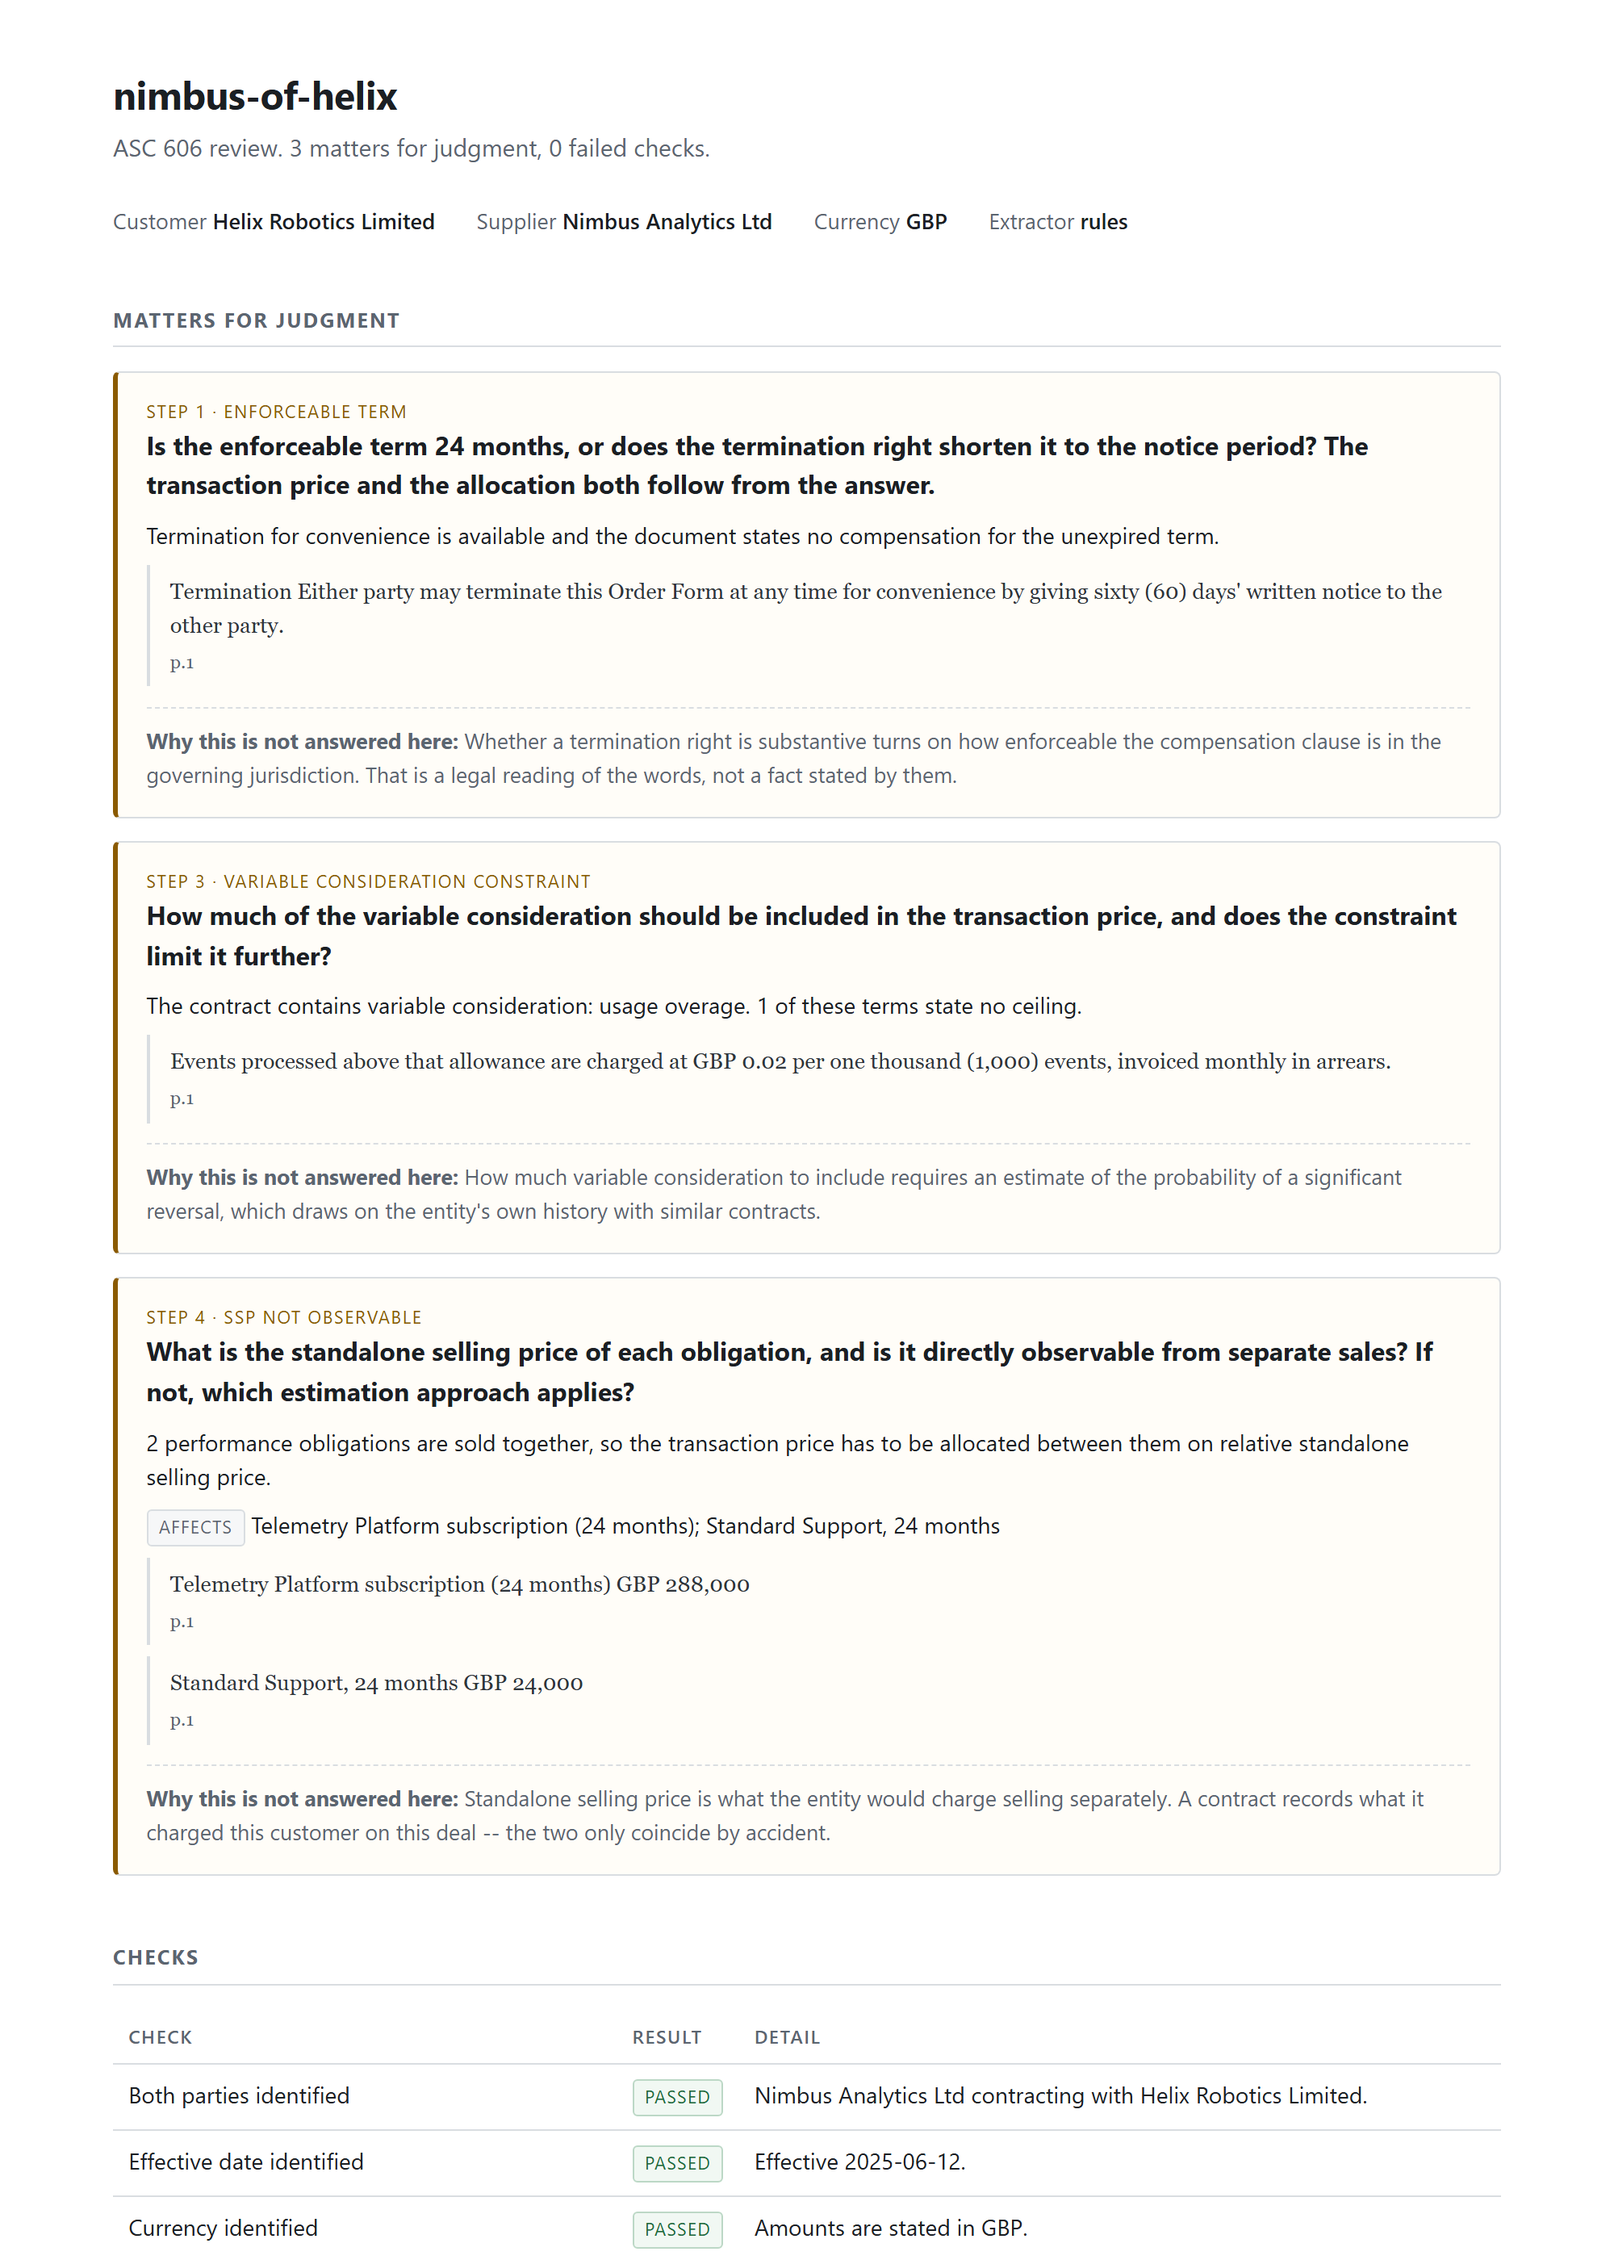
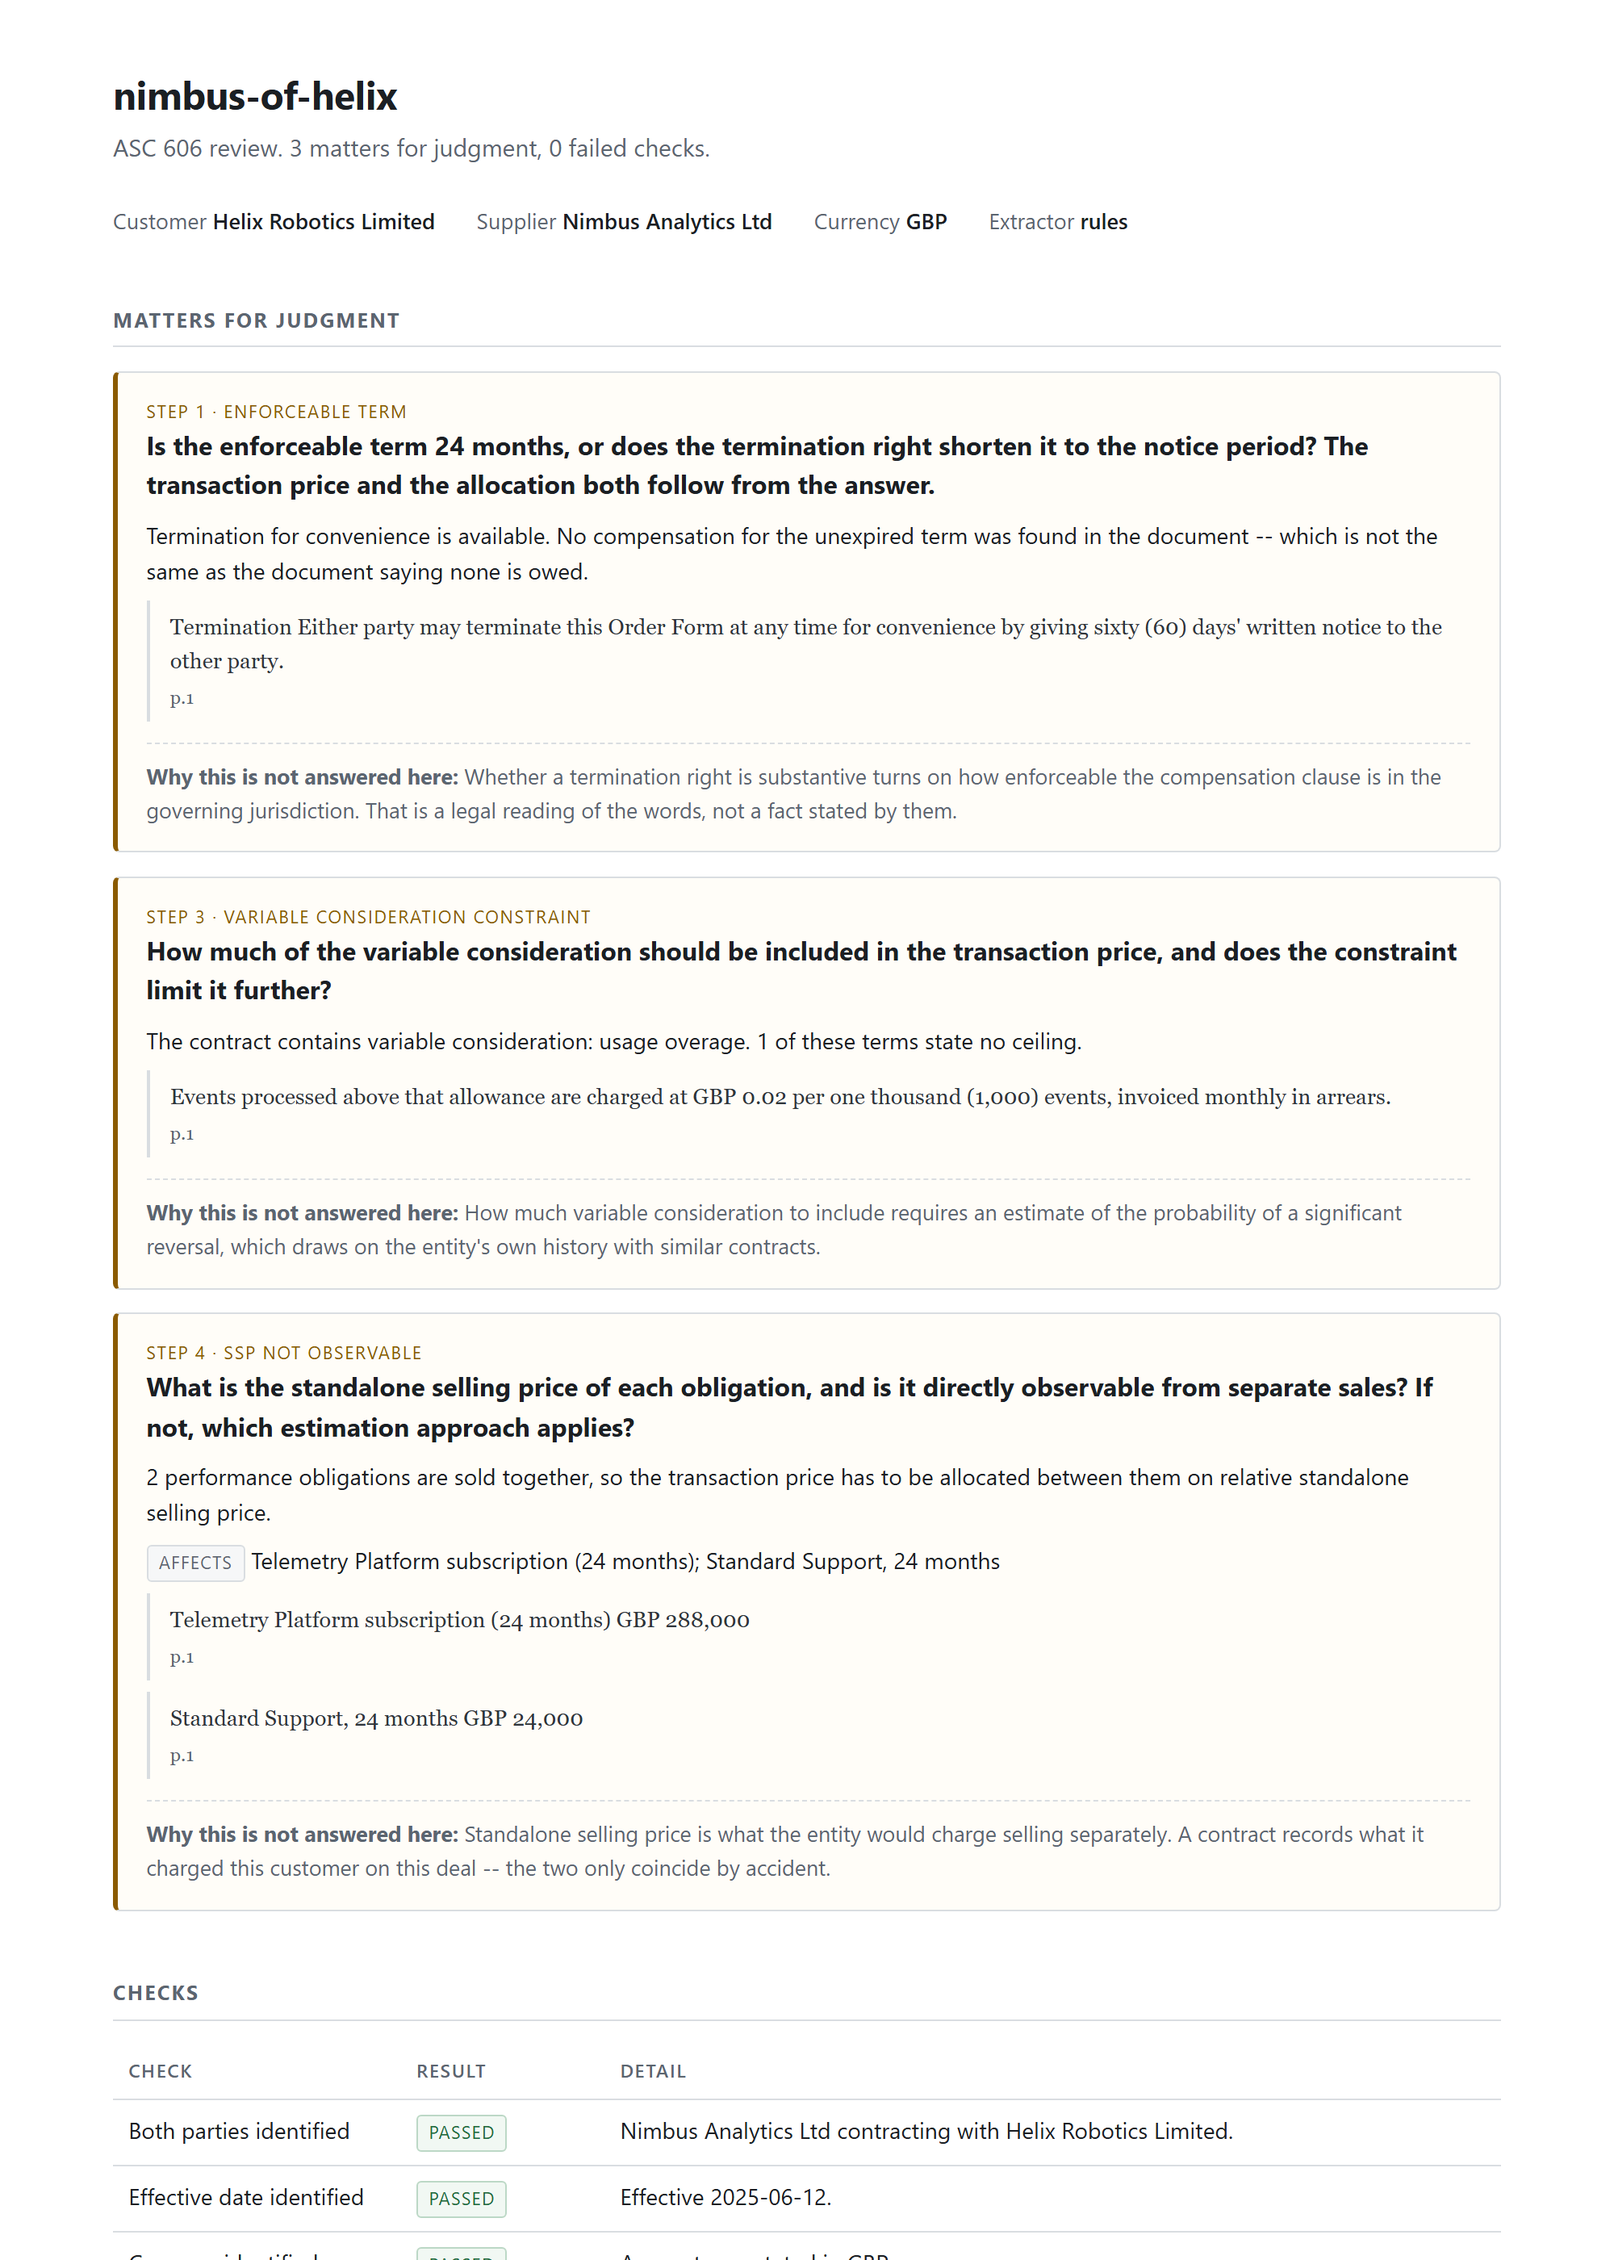
refresh the screenshots and the citation count after the check changes

diff --git a/README.md b/README.md
@@ -128,6 +128,12 @@ that is measured. A reviewer that flags something on every contract is not a
 reviewer; it is a smoke alarm with a stuck button, and a controller stops
 reading it inside a month.
 
+Across a folder, the same output is a worklist — ordered by everything needing
+attention, failed checks included, so a contract the pipeline could not read
+does not sink to the bottom looking like a clean one:
+
+![Run worklist](docs/images/worklist.png)
+
 ## Results
 
 The pipeline is scored against a committed gold set. Full methodology, and an
@@ -143,7 +149,7 @@ Offline rule-based extractor, 12 contracts:
 | Performance obligations | 0.79 | 0.75 | 0.77 |
 | Judgment flags | 0.95 | 0.83 | 0.88 |
 
-Citations re-resolved against the source: **210/210 (100%)**.
+Citations re-resolved against the source: **191/191 (100%)**.
 
 Those are the numbers for regular expressions, and they are published as the
 baseline the model has to beat — a model extractor that can't beat regexes on a

diff --git a/docs/evaluation.md b/docs/evaluation.md
@@ -53,7 +53,7 @@ than by reading the code. `revrec eval` exits non-zero if it ever drops below
 | Performance obligations | 0.79 | 0.75 | 0.77 |
 | Judgment flags | 0.95 | 0.83 | 0.88 |
 
-Citations re-resolved: 210/210 (100%). Claims dropped for no evidence: 0.
+Citations re-resolved: 191/191 (100%). Claims dropped for no evidence: 0.
 
 Saved run: [`evals/results/rules.json`](../evals/results/rules.json).
 
